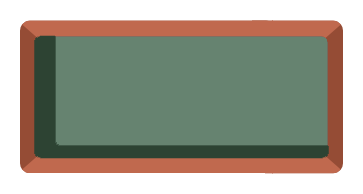
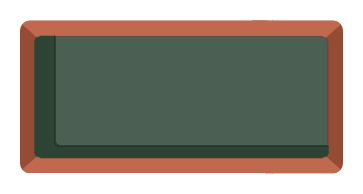
fixes

diff --git a/src/main/java/libgdx/screens/implementations/hangman/HangmanMainMenuScreen.java b/src/main/java/libgdx/screens/implementations/hangman/HangmanMainMenuScreen.java
@@ -27,6 +27,8 @@ import libgdx.resources.gamelabel.MainGameLabel;
 import libgdx.screen.AbstractScreen;
 import libgdx.utils.ScreenDimensionsManager;
 import libgdx.utils.Utils;
+import libgdx.utils.model.FontColor;
+import libgdx.utils.model.FontConfig;
 
 public class HangmanMainMenuScreen extends AbstractScreen<HangmanScreenManager> {
 
@@ -50,6 +52,7 @@ public class HangmanMainMenuScreen extends AbstractScreen<HangmanScreenManager> 
         maxLevelTable.add(GraphicUtils.getImage(HangmanSpecificResource.star)).padLeft(horizontalGeneralMarginDimen).width(horizontalGeneralMarginDimen * 5).height(horizontalGeneralMarginDimen * 5);
         table.add(maxLevelTable).padTop(horizontalGeneralMarginDimen * 2);
         addActor(table);
+        table.setBackground(GraphicUtils.getNinePatch(HangmanSpecificResource.main_menu_background_texture));
     }
 
     private void addTitle(Table table) {
@@ -73,10 +76,23 @@ public class HangmanMainMenuScreen extends AbstractScreen<HangmanScreenManager> 
 
     private Stack createTitleLabel() {
         String appName = Game.getInstance().getAppInfoService().getAppName();
-        MyWrappedLabel titleLabel = new MyWrappedLabel(new MyWrappedLabelConfigBuilder().setText(appName).build());
-        titleLabel.setFontScale(FontManager.calculateMultiplierStandardFontSize(appName.length() > 14 ? 1.5f : 2f));
+        MyWrappedLabel titleLabel = new MyWrappedLabel(new MyWrappedLabelConfigBuilder().setFontConfig(new FontConfig(
+                FontColor.WHITE.getColor(),
+                FontColor.BLACK.getColor(),
+                2f)).setText(appName).build());
+        titleLabel.setFontScale(FontManager.calculateMultiplierStandardFontSize(getTitleMultiplier(appName)));
         titleLabel.setAlignment(Align.center);
         return createTitleStack(titleLabel);
+    }
+
+    private float getTitleMultiplier(String appName) {
+        if (appName.length() > 16) {
+            return 1.3f;
+        } else if (appName.length() > 13) {
+            return 1.7f;
+        } {
+            return 2f;
+        }
     }
 
     protected Stack createTitleStack(MyWrappedLabel titleLabel) {

diff --git a/src/main/java/libgdx/implementations/hangman/HangmanSpecificResource.java b/src/main/java/libgdx/implementations/hangman/HangmanSpecificResource.java
@@ -19,6 +19,7 @@ public enum HangmanSpecificResource implements SpecificResource {
     h4("h4.png", Texture.class),
     h5("h5.png", Texture.class),
     h6("h6.png", Texture.class),
+    main_menu_background_texture("main_menu_background_texture.png", Texture.class),
 
     btn_hangman_correct("buttons/btn_hangman_correct.png", Texture.class),
     btn_hangman_wrong("buttons/btn_hangman_wrong.png", Texture.class),
